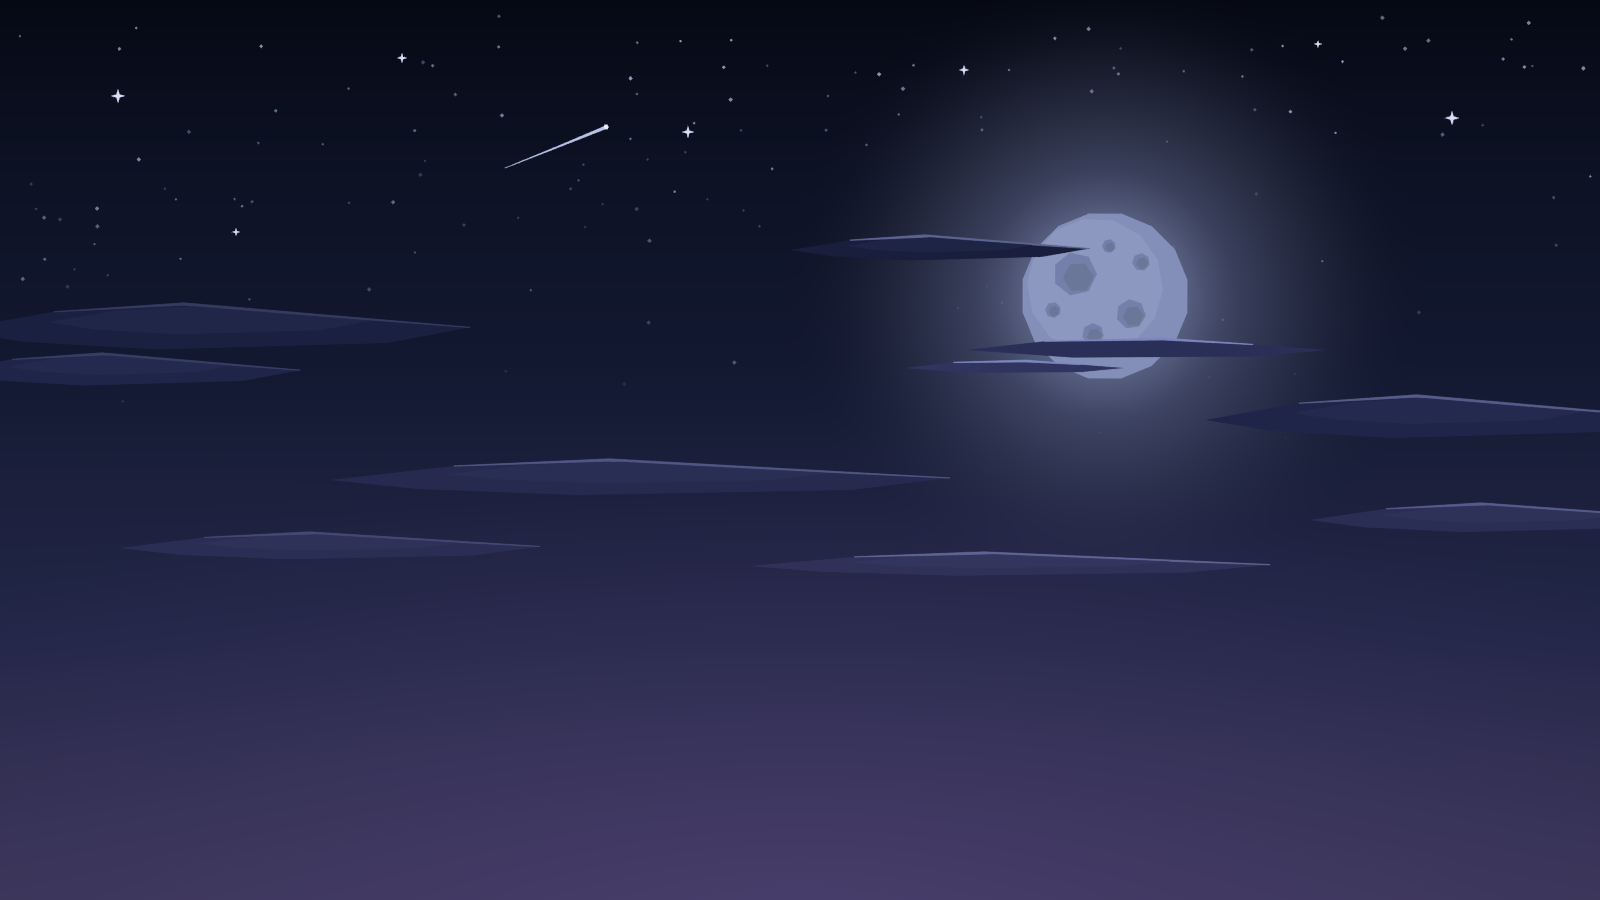
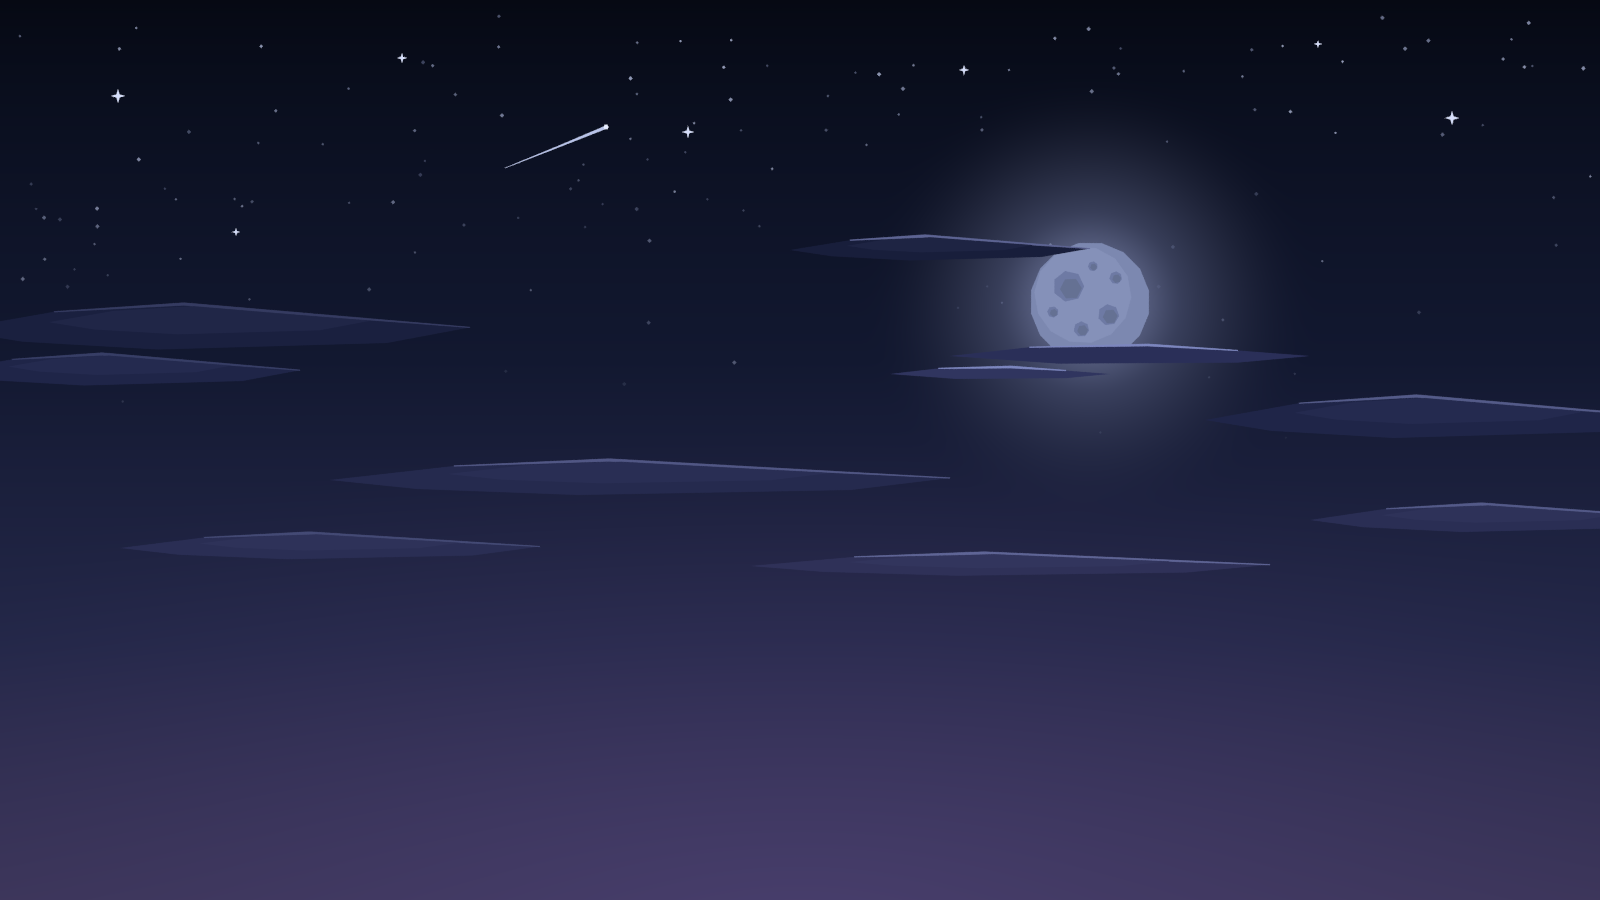
Arena básica: lua menor e acima da luta, corda rente à viga e portal sem mancha de luz
Claude-Session: https://claude.ai/code/session_01Pima1W9Yxg9stqkyqdyHEK

Changed region(s): [[0.5625, 0.0933, 0.8125, 0.4667]]

diff --git a/ferramentas/arte/cenarios/arena-basica.py b/ferramentas/arte/cenarios/arena-basica.py
@@ -58,15 +58,18 @@ for i in range(150):
 for i, (x, y, r) in enumerate(((118, 96, 7), (402, 58, 5), (688, 132, 6), (964, 70, 5), (1452, 118, 7), (1318, 44, 4), (236, 232, 4))):
     tom = "#d6defa"
     c.placa(f"estrela_g{i}", [(x - r, y), (x - r * 0.22, y - r * 0.22), (x, y - r), (x + r * 0.22, y - r * 0.22), (x + r, y), (x + r * 0.22, y + r * 0.22), (x, y + r), (x - r * 0.22, y + r * 0.22)], c.brilho(tom), profundidade=879)
-# Lua: à direita, emoldurada pelo portal, acima de onde se luta. Clara, mas sem estourar.
-LUA = (1105, 296)
-halo("lua", *LUA, 330, "#8f9bd0", 0.5, 872, queda=2.6)
-halo("lua_perto", *LUA, 130, "#aab4e0", 0.35, 871, queda=1.6)
-c.disco("lua", *LUA, 84, c.brilho("#838fb8"), lados=16, profundidade=866, giro=0.2)
-c.disco("lua_luz", LUA[0] - 10, LUA[1] - 10, 68, c.brilho("#8c98c0"), lados=14, profundidade=865, giro=0.5)
+# Lua: à direita, emoldurada pelo portal. Menor e mais alta que na primeira versão, para ficar
+# acima da cabeça de quem luta em cima da plataforma da direita. Clara, mas sem estourar.
+LUA = (1090, 302)
+K = 60 / 84  # a lua já foi maior; as medidas abaixo são as daquele tamanho, encolhidas
+halo("lua", *LUA, 330 * K, "#8f9bd0", 0.45, 872, queda=2.6)
+halo("lua_perto", *LUA, 130 * K, "#aab4e0", 0.3, 871, queda=1.6)
+c.disco("lua", *LUA, 84 * K, c.brilho("#7c88b0"), lados=16, profundidade=866, giro=0.2)
+c.disco("lua_luz", LUA[0] - 10 * K, LUA[1] - 10 * K, 68 * K, c.brilho("#8591b9"), lados=14, profundidade=865, giro=0.5)
 for i, (dx, dy, r) in enumerate(((-30, -22, 22), (26, 18, 15), (-12, 38, 11), (36, -34, 9), (4, -50, 7), (-52, 14, 8))):
-    c.disco(f"cratera{i}", LUA[0] + dx, LUA[1] + dy, r, c.brilho("#7480aa"), lados=7, profundidade=864, giro=i)
-    c.disco(f"cratera_fundo{i}", LUA[0] + dx + r * 0.15, LUA[1] + dy + r * 0.15, r * 0.7, c.brilho("#6b7799"), lados=6, profundidade=863, giro=i + 1)
+    dx, dy, r = dx * K, dy * K, r * K
+    c.disco(f"cratera{i}", LUA[0] + dx, LUA[1] + dy, r, c.brilho("#6e7aa4"), lados=7, profundidade=864, giro=i)
+    c.disco(f"cratera_fundo{i}", LUA[0] + dx + r * 0.15, LUA[1] + dy + r * 0.15, r * 0.7, c.brilho("#657193"), lados=6, profundidade=863, giro=i + 1)
 # Nuvens altas: faixas compridas e facetadas em dois tons, mais para as bordas.
 for i, (x, y, l, a, tom) in enumerate(
     (
@@ -305,18 +308,21 @@ for nome, x, lado in (("e", X0_TELHADO, -1), ("d", X1_TELHADO, 1)):
     c.placa(f"portal_ponta_{nome}", [(x - lado * 30, 160), (x + lado * 4, 152), (x + lado * 22, 124), (x + lado * 2, 166)], TELHA_ESCURA, profundidade=-72)
 # Corda grossa trançada na viga de baixo, com três borlas: detalhe de santuário, sem símbolo nenhum.
 CORDA = c.mat("#6a5a40", ambiente=0.5, luz=0.5, base=0.8)
-pontos_da_corda = [(COL_E + 150 + (COL_D - COL_E - 300) * i / 24, 300 + 10 * math.sin(math.pi * i / 24)) for i in range(25)]
-c.fita("portal_corda", pontos_da_corda, [5 + 5 * math.sin(math.pi * i / 24) for i in range(25)], CORDA, profundidade=-38)
-for i in (6, 12, 18):
+# A corda fica rente à viga, quase sem barriga, e as borlas só perto das colunas: no meio fica
+# a plataforma do alto, e nada deve parecer que encosta nela.
+pontos_da_corda = [(COL_E + 150 + (COL_D - COL_E - 300) * i / 24, 297 + 3 * math.sin(math.pi * i / 24)) for i in range(25)]
+c.fita("portal_corda", pontos_da_corda, [4 + 2 * math.sin(math.pi * i / 24) for i in range(25)], CORDA, profundidade=-38)
+for i in (1, 23):
     bx, by = pontos_da_corda[i]
-    c.placa(f"portal_borla{i}", [(bx - 4, by + 3), (bx + 4, by + 3), (bx + 6, by + 26), (bx, by + 32), (bx - 6, by + 26)], CORDA, profundidade=-39)
+    c.placa(f"portal_borla{i}", [(bx - 4, by + 3), (bx + 4, by + 3), (bx + 6, by + 20), (bx, by + 25), (bx - 6, by + 20)], CORDA, profundidade=-39)
 
 # Lanternas de papel penduradas na viga, junto das colunas: o único brilho quente perto da luta,
 # e fica nas pontas.
 for nome, x in (("e", COL_E + 84), ("d", COL_D - 84)):
     c.retangulo(f"lanterna_fio_{nome}", x - 1.5, 296, x + 1.5, 326, TRONCO, profundidade=-20)
     halo(f"lanterna_{nome}", x, 350, 96, "#ffbe66", 0.5, -52, queda=2.2)
-    c.lampada(f"lanterna_luz_{nome}", x, 352, -110, "#ffb45a", forca=1.35, raio=130)
+    # Luz fraca e curta: forte, ela deixava o portal bem mais vermelho perto das lanternas.
+    c.lampada(f"lanterna_luz_{nome}", x, 352, -110, "#ffb45a", forca=0.7, raio=95)
     corpo = [(x - 9, 328), (x + 9, 328), (x + 16, 338), (x + 16, 362), (x + 9, 372), (x - 9, 372), (x - 16, 362), (x - 16, 338)]
     c.placa(f"lanterna_{nome}", corpo, LUZ, profundidade=-56)
     c.placa(f"lanterna_miolo_{nome}", [(x - 5, 334), (x + 5, 334), (x + 9, 342), (x + 9, 358), (x + 5, 366), (x - 5, 366), (x - 9, 358), (x - 9, 342)], c.brilho("#ffe6a8"), profundidade=-57)
